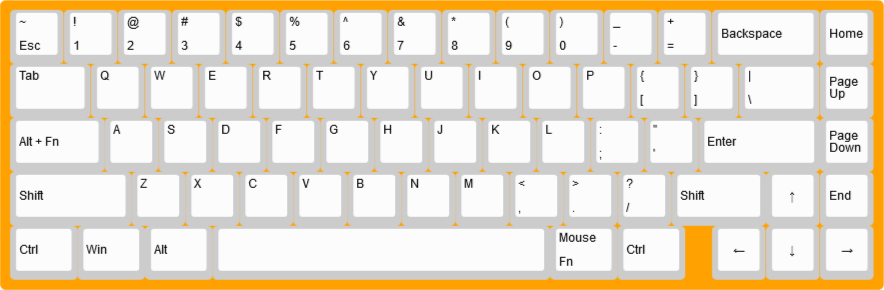
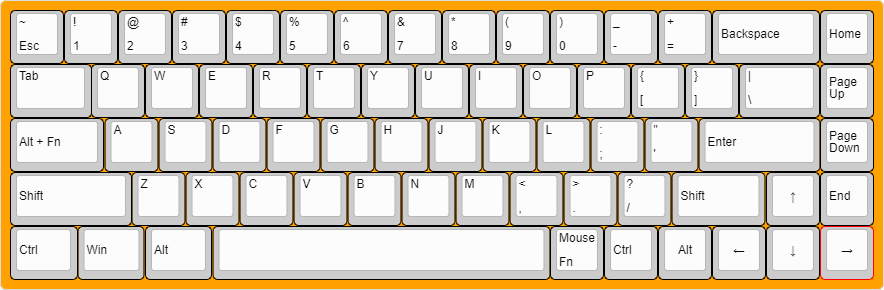
Add support for alt on bottom row ; basically std ansi layout and relatedupdates

Changed region(s): [[0.0, 0.0, 1.0, 1.0]]

diff --git a/keyboards/kbdfans/kbd67/rev2/keymap.c b/keyboards/kbdfans/kbd67/rev2/keymap.c
@@ -30,40 +30,39 @@ qk_tap_dance_action_t tap_dance_actions[] = {
 };
 
 const uint16_t PROGMEM keymaps[][MATRIX_ROWS][MATRIX_COLS] = {
-        [0] = LAYOUT_65_ansi_blocker(KC_GESC, KC_1, KC_2, KC_3, KC_4, KC_5, KC_6, KC_7, KC_8, KC_9, KC_0, KC_MINS, KC_EQL, KC_BSPC, KC_HOME,
+        [0] = LAYOUT_65_ansi(KC_GESC, KC_1, KC_2, KC_3, KC_4, KC_5, KC_6, KC_7, KC_8, KC_9, KC_0, KC_MINS, KC_EQL, KC_BSPC, KC_HOME,
                                      KC_TAB, KC_Q, KC_W, KC_E, KC_R, KC_T, KC_Y, KC_U, KC_I, KC_O, KC_P, KC_LBRC, KC_RBRC, KC_BSLS, KC_PGUP,
                                      LM(1, MOD_LALT), KC_A, KC_S, KC_D, KC_F, KC_G, KC_H, KC_J, KC_K, KC_L, KC_SCLN, KC_QUOT, KC_ENT, KC_PGDN,
                                      KC_LSFT, KC_Z, KC_X, KC_C, KC_V, KC_B, KC_N, KC_M, KC_COMM, KC_DOT, KC_SLSH, KC_RSFT, KC_UP, KC_END,
-                                     KC_LCTL, KC_LGUI, KC_LALT, KC_SPC, TD(LAYERS), KC_RCTL, KC_LEFT, KC_DOWN, KC_RGHT),
-        [1] = LAYOUT_65_ansi_blocker(KC_GRV, KC_F1, KC_F2, KC_F3, KC_F4, KC_F5, KC_F6, KC_F7, KC_F8, KC_F9, KC_F10, KC_F11, KC_F12, KC_DEL, KC_DEL,
+                                     KC_LCTL, KC_LGUI, KC_LALT, KC_SPC, TD(LAYERS), KC_RALT, KC_RCTL, KC_LEFT, KC_DOWN, KC_RGHT),
+        [1] = LAYOUT_65_ansi(KC_GRV, KC_F1, KC_F2, KC_F3, KC_F4, KC_F5, KC_F6, KC_F7, KC_F8, KC_F9, KC_F10, KC_F11, KC_F12, KC_DEL, KC_DEL,
                                      KC_TRNS, KC_TRNS, KC_TRNS, KC_TRNS, KC_TRNS, KC_TRNS, KC_TRNS, KC_TRNS, KC_UP, KC_TRNS, KC_TRNS, KC_TRNS, KC_TRNS, RESET, KC_INS,
                                      KC_TRNS, KC_TRNS, KC_TRNS, KC_TRNS, KC_TRNS, KC_TRNS, KC_TRNS, KC_TRNS, KC_TRNS, KC_TRNS, KC_TRNS, KC_TRNS, KC_TRNS, KC_PSCR,
                                      KC_TRNS, KC_TRNS, KC_TRNS, KC_TRNS, KC_TRNS, KC_TRNS, KC_TRNS, KC_TRNS, KC_TRNS, KC_TRNS, KC_MEDIA_PLAY_PAUSE, KC_RSFT, KC_VOLU, KC_MUTE,
-                                     KC_TRNS, KC_TRNS, KC_TRNS, KC_TRNS, KC_TRNS, KC_RALT, RGB_VAD, KC_VOLD, RGB_VAI),
-        [2] = LAYOUT_65_ansi_blocker(KC_ESC, KC_NO, KC_NO, KC_NO, KC_NO, KC_NO, KC_NO, KC_NO, KC_NO, KC_NO, KC_NO, KC_NO, KC_NO, KC_NO, KC_NO,
+                                     KC_TRNS, KC_TRNS, KC_TRNS, KC_TRNS, KC_TRNS, KC_TRNS, KC_TRNS, RGB_VAD, KC_VOLD, RGB_VAI),
+        [2] = LAYOUT_65_ansi(KC_ESC, KC_NO, KC_NO, KC_NO, KC_NO, KC_NO, KC_NO, KC_NO, KC_NO, KC_NO, KC_NO, KC_NO, KC_NO, KC_NO, KC_NO,
                                      KC_NO, KC_NO, KC_NO, KC_MS_UP, KC_NO, KC_NO, KC_NO, KC_MS_WH_UP, KC_NO, KC_NO, KC_NO, KC_NO, KC_NO, KC_NO, KC_NO,
                                      KC_NO, KC_NO, KC_MS_LEFT, KC_MS_DOWN, KC_MS_RIGHT, KC_NO, KC_NO, KC_MS_BTN1, KC_MS_BTN2, KC_NO, KC_NO, KC_NO, KC_NO, KC_NO,
                                      KC_LSFT, KC_NO, KC_X, KC_C, KC_V, KC_NO, KC_NO, KC_MS_WH_DOWN, KC_NO, KC_NO, KC_NO, KC_NO, KC_NO, KC_NO,
-                                     KC_LCTL, KC_NO, TG(2), KC_NO, TG(2), KC_NO, KC_NO, KC_NO, KC_NO),
+                                     KC_LCTL, KC_NO, TG(2), KC_NO, TG(2), KC_NO, KC_NO, KC_NO, KC_NO, KC_NO),
 };
 
 // Customized HSV values for layer highlights
 #define HSV_KMN_ORANGE 10,255, RGBLIGHT_LIMIT_VAL
 #define HSV_KMN_CYAN 128, 255, RGBLIGHT_LIMIT_VAL
 #define HSV_KMN_PURPLE 191, 255, RGBLIGHT_LIMIT_VAL
-#define LED_UNDERGLOW_NUMBER 16
 
 // Standard layout == Layer 0 == Orange
 const rgblight_segment_t PROGMEM led_underglow_orange[] = RGBLIGHT_LAYER_SEGMENTS(
-    {0, LED_UNDERGLOW_NUMBER, HSV_KMN_ORANGE}
+    {0, RGBLED_NUM, HSV_KMN_ORANGE}
 );
 // Modifiers == Layer 1 == Cyan
 const rgblight_segment_t PROGMEM led_underglow_cyan[] = RGBLIGHT_LAYER_SEGMENTS(
-    {0, LED_UNDERGLOW_NUMBER, HSV_KMN_CYAN}
+    {0, RGBLED_NUM, HSV_KMN_CYAN}
 );
 // Mouse keys == Layer 3 == Purple
 const rgblight_segment_t PROGMEM led_underglow_purple[] = RGBLIGHT_LAYER_SEGMENTS(
-    {0, LED_UNDERGLOW_NUMBER, HSV_KMN_PURPLE}
+    {0, RGBLED_NUM, HSV_KMN_PURPLE}
 );
 
 // Array of layers for management

diff --git a/qmk/keyboards/kbdfans/kbd67/rev2/keymaps/kemonine/keymap.c b/qmk/keyboards/kbdfans/kbd67/rev2/keymaps/kemonine/keymap.c
@@ -30,40 +30,39 @@ qk_tap_dance_action_t tap_dance_actions[] = {
 };
 
 const uint16_t PROGMEM keymaps[][MATRIX_ROWS][MATRIX_COLS] = {
-        [0] = LAYOUT_65_ansi_blocker(KC_GESC, KC_1, KC_2, KC_3, KC_4, KC_5, KC_6, KC_7, KC_8, KC_9, KC_0, KC_MINS, KC_EQL, KC_BSPC, KC_HOME,
+        [0] = LAYOUT_65_ansi(KC_GESC, KC_1, KC_2, KC_3, KC_4, KC_5, KC_6, KC_7, KC_8, KC_9, KC_0, KC_MINS, KC_EQL, KC_BSPC, KC_HOME,
                                      KC_TAB, KC_Q, KC_W, KC_E, KC_R, KC_T, KC_Y, KC_U, KC_I, KC_O, KC_P, KC_LBRC, KC_RBRC, KC_BSLS, KC_PGUP,
                                      LM(1, MOD_LALT), KC_A, KC_S, KC_D, KC_F, KC_G, KC_H, KC_J, KC_K, KC_L, KC_SCLN, KC_QUOT, KC_ENT, KC_PGDN,
                                      KC_LSFT, KC_Z, KC_X, KC_C, KC_V, KC_B, KC_N, KC_M, KC_COMM, KC_DOT, KC_SLSH, KC_RSFT, KC_UP, KC_END,
-                                     KC_LCTL, KC_LGUI, KC_LALT, KC_SPC, TD(LAYERS), KC_RCTL, KC_LEFT, KC_DOWN, KC_RGHT),
-        [1] = LAYOUT_65_ansi_blocker(KC_GRV, KC_F1, KC_F2, KC_F3, KC_F4, KC_F5, KC_F6, KC_F7, KC_F8, KC_F9, KC_F10, KC_F11, KC_F12, KC_DEL, KC_DEL,
+                                     KC_LCTL, KC_LGUI, KC_LALT, KC_SPC, TD(LAYERS), KC_RALT, KC_RCTL, KC_LEFT, KC_DOWN, KC_RGHT),
+        [1] = LAYOUT_65_ansi(KC_GRV, KC_F1, KC_F2, KC_F3, KC_F4, KC_F5, KC_F6, KC_F7, KC_F8, KC_F9, KC_F10, KC_F11, KC_F12, KC_DEL, KC_DEL,
                                      KC_TRNS, KC_TRNS, KC_TRNS, KC_TRNS, KC_TRNS, KC_TRNS, KC_TRNS, KC_TRNS, KC_UP, KC_TRNS, KC_TRNS, KC_TRNS, KC_TRNS, RESET, KC_INS,
                                      KC_TRNS, KC_TRNS, KC_TRNS, KC_TRNS, KC_TRNS, KC_TRNS, KC_TRNS, KC_TRNS, KC_TRNS, KC_TRNS, KC_TRNS, KC_TRNS, KC_TRNS, KC_PSCR,
                                      KC_TRNS, KC_TRNS, KC_TRNS, KC_TRNS, KC_TRNS, KC_TRNS, KC_TRNS, KC_TRNS, KC_TRNS, KC_TRNS, KC_MEDIA_PLAY_PAUSE, KC_RSFT, KC_VOLU, KC_MUTE,
-                                     KC_TRNS, KC_TRNS, KC_TRNS, KC_TRNS, KC_TRNS, KC_RALT, RGB_VAD, KC_VOLD, RGB_VAI),
-        [2] = LAYOUT_65_ansi_blocker(KC_ESC, KC_NO, KC_NO, KC_NO, KC_NO, KC_NO, KC_NO, KC_NO, KC_NO, KC_NO, KC_NO, KC_NO, KC_NO, KC_NO, KC_NO,
+                                     KC_TRNS, KC_TRNS, KC_TRNS, KC_TRNS, KC_TRNS, KC_TRNS, KC_TRNS, RGB_VAD, KC_VOLD, RGB_VAI),
+        [2] = LAYOUT_65_ansi(KC_ESC, KC_NO, KC_NO, KC_NO, KC_NO, KC_NO, KC_NO, KC_NO, KC_NO, KC_NO, KC_NO, KC_NO, KC_NO, KC_NO, KC_NO,
                                      KC_NO, KC_NO, KC_NO, KC_MS_UP, KC_NO, KC_NO, KC_NO, KC_MS_WH_UP, KC_NO, KC_NO, KC_NO, KC_NO, KC_NO, KC_NO, KC_NO,
                                      KC_NO, KC_NO, KC_MS_LEFT, KC_MS_DOWN, KC_MS_RIGHT, KC_NO, KC_NO, KC_MS_BTN1, KC_MS_BTN2, KC_NO, KC_NO, KC_NO, KC_NO, KC_NO,
                                      KC_LSFT, KC_NO, KC_X, KC_C, KC_V, KC_NO, KC_NO, KC_MS_WH_DOWN, KC_NO, KC_NO, KC_NO, KC_NO, KC_NO, KC_NO,
-                                     KC_LCTL, KC_NO, TG(2), KC_NO, TG(2), KC_NO, KC_NO, KC_NO, KC_NO),
+                                     KC_LCTL, KC_NO, TG(2), KC_NO, TG(2), KC_NO, KC_NO, KC_NO, KC_NO, KC_NO),
 };
 
 // Customized HSV values for layer highlights
 #define HSV_KMN_ORANGE 10,255, RGBLIGHT_LIMIT_VAL
 #define HSV_KMN_CYAN 128, 255, RGBLIGHT_LIMIT_VAL
 #define HSV_KMN_PURPLE 191, 255, RGBLIGHT_LIMIT_VAL
-#define LED_UNDERGLOW_NUMBER 16
 
 // Standard layout == Layer 0 == Orange
 const rgblight_segment_t PROGMEM led_underglow_orange[] = RGBLIGHT_LAYER_SEGMENTS(
-    {0, LED_UNDERGLOW_NUMBER, HSV_KMN_ORANGE}
+    {0, RGBLED_NUM, HSV_KMN_ORANGE}
 );
 // Modifiers == Layer 1 == Cyan
 const rgblight_segment_t PROGMEM led_underglow_cyan[] = RGBLIGHT_LAYER_SEGMENTS(
-    {0, LED_UNDERGLOW_NUMBER, HSV_KMN_CYAN}
+    {0, RGBLED_NUM, HSV_KMN_CYAN}
 );
 // Mouse keys == Layer 3 == Purple
 const rgblight_segment_t PROGMEM led_underglow_purple[] = RGBLIGHT_LAYER_SEGMENTS(
-    {0, LED_UNDERGLOW_NUMBER, HSV_KMN_PURPLE}
+    {0, RGBLED_NUM, HSV_KMN_PURPLE}
 );
 
 // Array of layers for management
